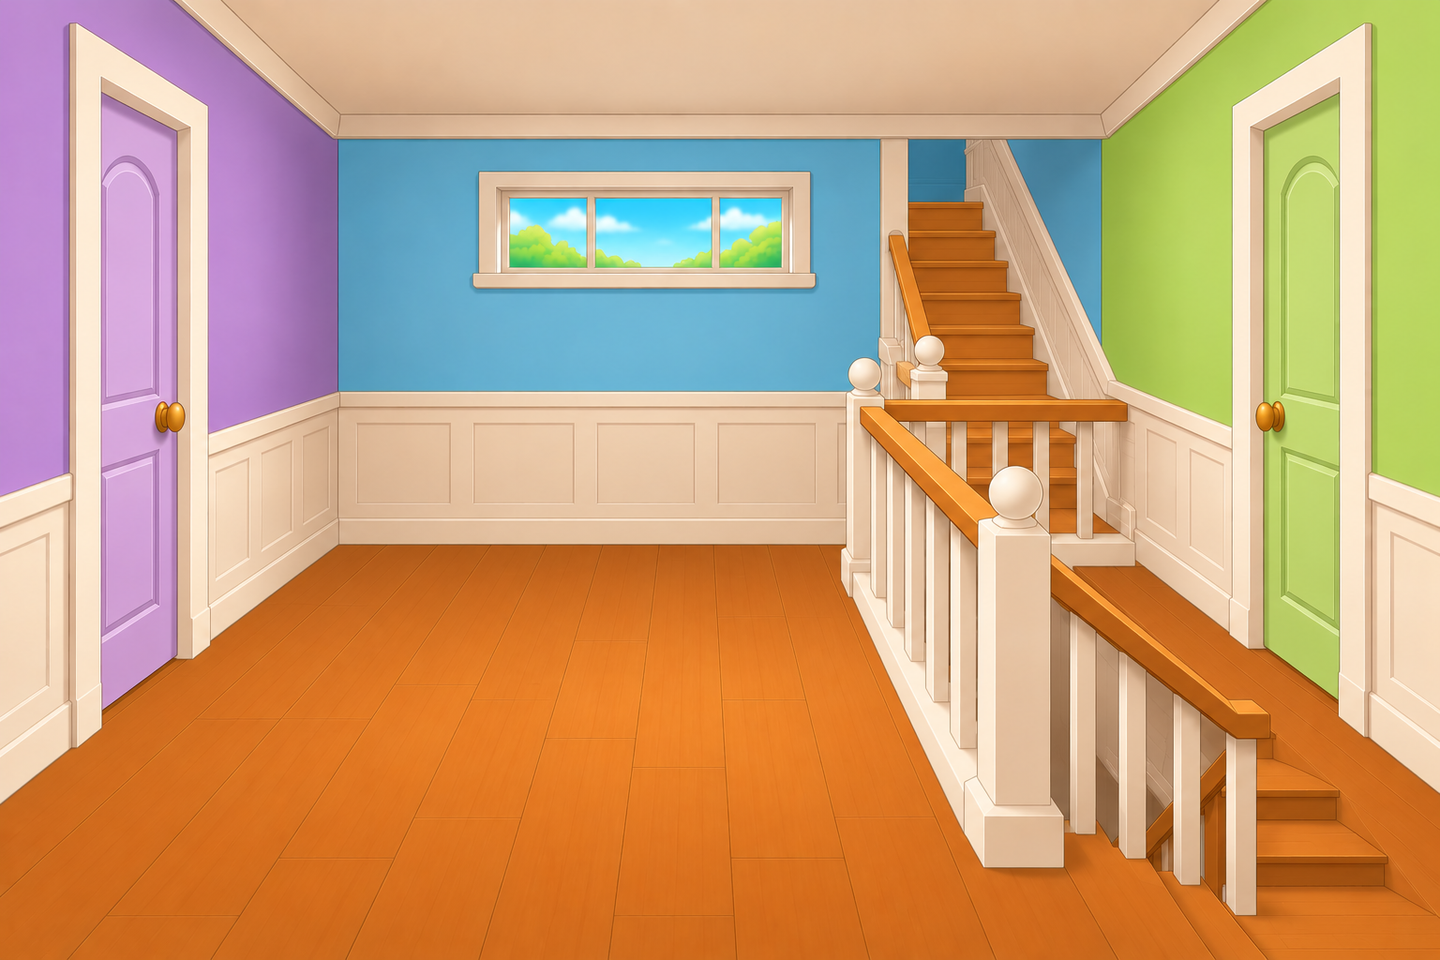
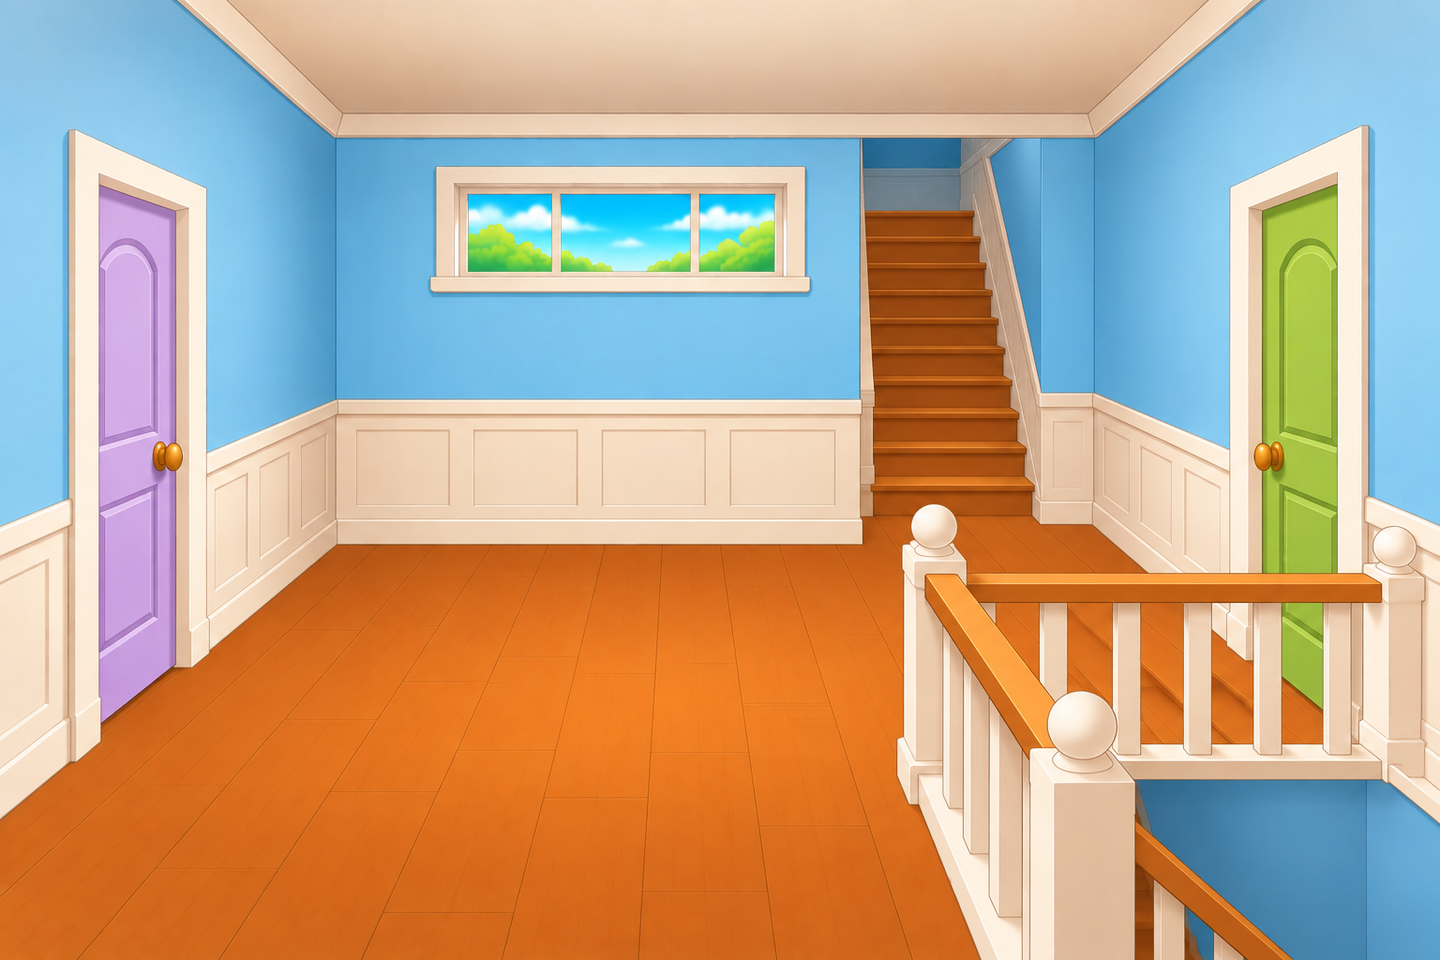
art: coloured hallway doors matching the rooms, arrows moved onto the new doors and stairs

diff --git a/EvasLearningWorld/Assets/Eva/App/Screens/HouseScreen.cs b/EvasLearningWorld/Assets/Eva/App/Screens/HouseScreen.cs
@@ -64,9 +64,9 @@ namespace EvasLearningWorld.App
         // Order: left, right, up, down. Provisional, tuned by eye against the art.
         private static readonly Dictionary<string, Vector2[]> HallNav = new Dictionary<string, Vector2[]>
         {
-            { "hall_ground", new[] { new Vector2(-590f, 60f), new Vector2(585f, 60f), new Vector2(307f, 90f),  Vector2.zero } },
-            { "hall_upper",  new[] { new Vector2(-585f, 60f), new Vector2(580f, 60f), new Vector2(274f, 190f), new Vector2(395f, -190f) } },
-            { "hall_attic",  new[] { new Vector2(-480f, 60f), new Vector2(480f, 60f), Vector2.zero,            new Vector2(350f, -250f) } },
+            { "hall_ground", new[] { new Vector2(-585f, 30f), new Vector2(585f, 30f), new Vector2(280f, 80f),  Vector2.zero } },
+            { "hall_upper",  new[] { new Vector2(-585f, 40f), new Vector2(585f, 60f), new Vector2(230f, 120f), new Vector2(450f, -200f) } },
+            { "hall_attic",  new[] { Vector2.zero,            new Vector2(590f, 40f), Vector2.zero,            new Vector2(400f, -230f) } },
         };
 
         // Furniture is drawn back to front so tall things behind do not hide the low things in front of them.
